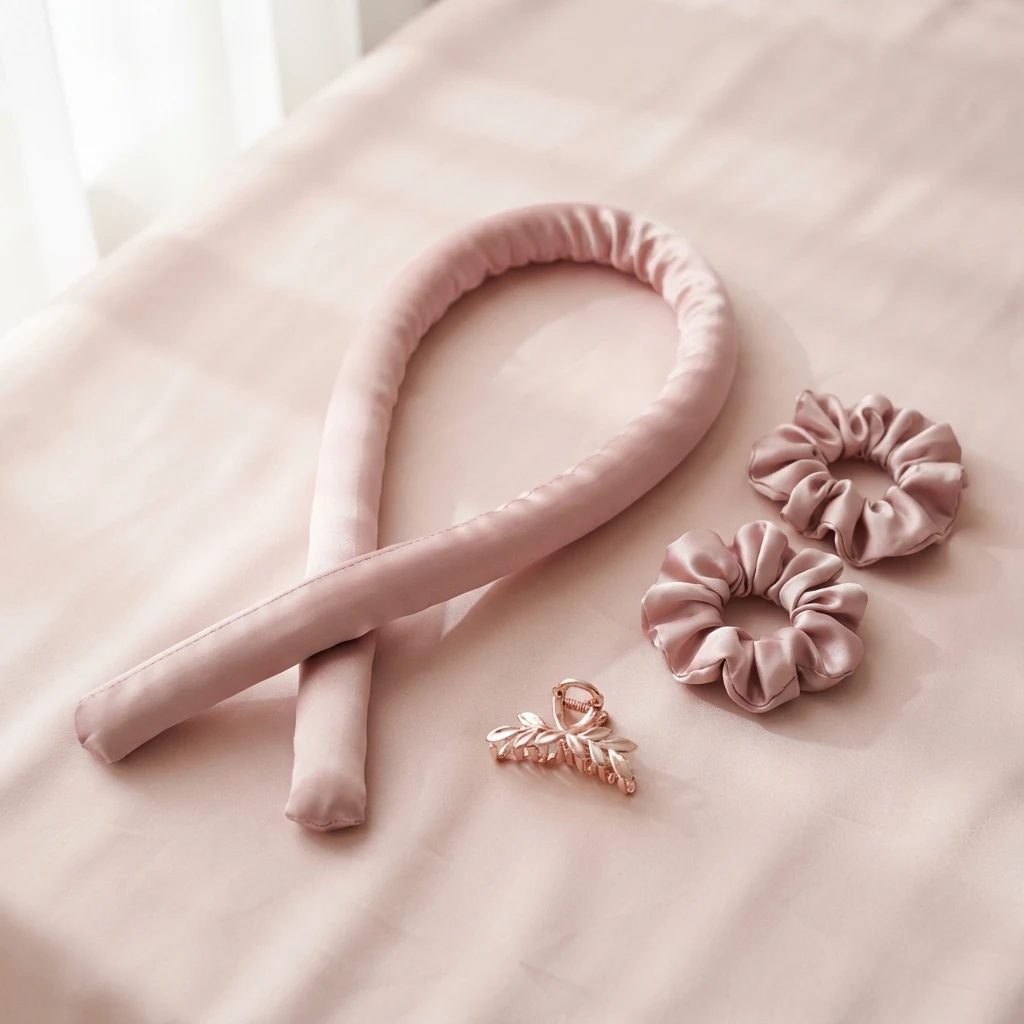
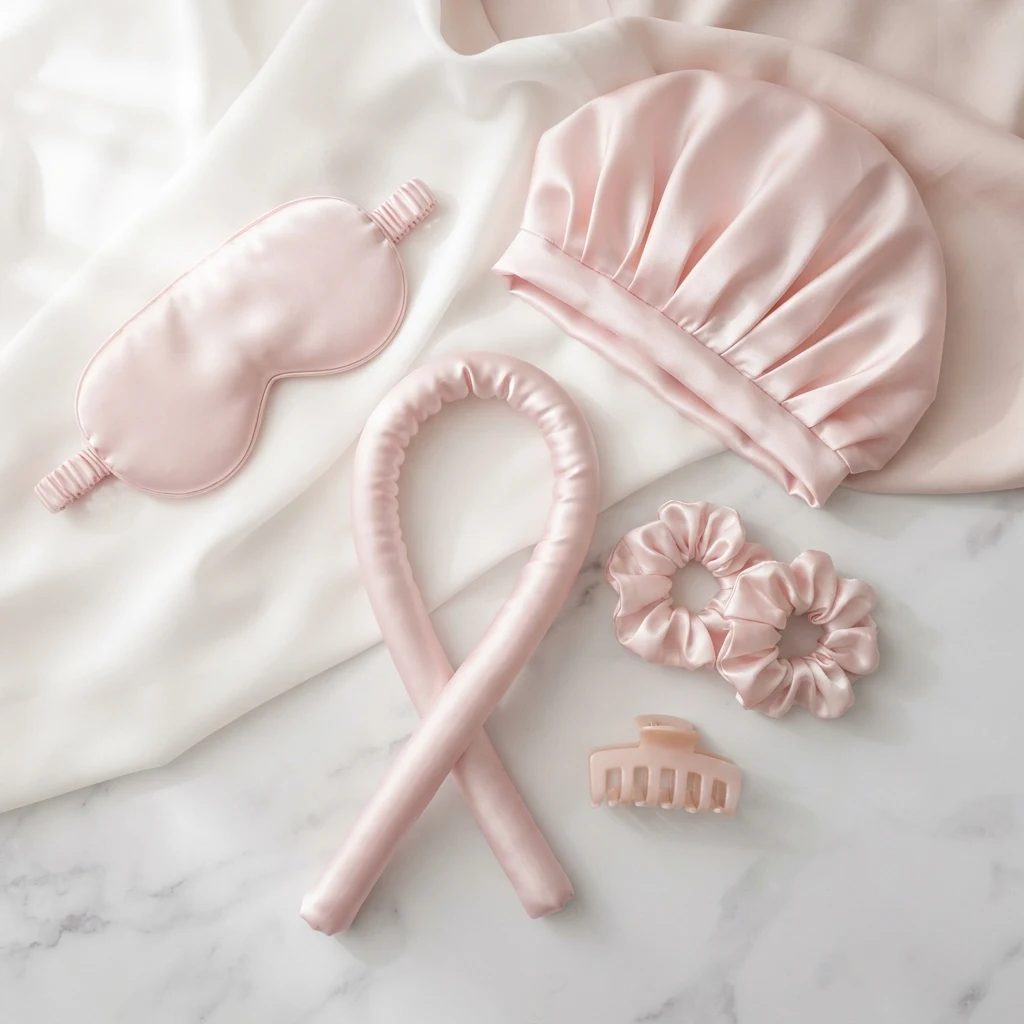
Add files via upload

diff --git a/index.html b/index.html
@@ -4,7 +4,7 @@
 <meta charset="utf-8">
 <meta name="viewport" content="width=device-width, initial-scale=1">
 <title>NOCTÉ Heatless Curls</title>
-<meta name="description" content="NOCTÉ heatless curling kit: satin rod, scrunchies and claw clip. Wrap in 5 minutes, sleep on it, wake up to curls with no heat.">
+<meta name="description" content="NOCTÉ heatless curling set: satin rod, scrunchies, claw clip, satin bonnet and sleep mask. Wrap in 5 minutes, sleep on it, wake up to curls with no heat.">
 <meta property="og:title" content="NOCTÉ: wake up to curls, no heat">
 <meta property="og:description" content="Satin heatless curling kit. Join the list for 15% off on launch day.">
 <meta property="og:image" content="https://jon1312.github.io/nocte/kit.jpg">
@@ -79,7 +79,7 @@ nav{position:sticky;top:0;z-index:20;display:flex;align-items:center;justify-con
 .step p{color:var(--soft);font-size:17px;max-width:30em}
 .night{background:var(--plum);color:#f6e6ea}
 .night .soft{color:#cdb3c4}
-.kit{display:grid;grid-template-columns:repeat(4,minmax(0,1fr));gap:16px;margin-top:32px}
+.kit{display:grid;grid-template-columns:repeat(auto-fit,minmax(170px,1fr));gap:16px;margin-top:32px}
 .item{background:color-mix(in srgb,#fff 6%,transparent);border:1px solid color-mix(in srgb,#fff 14%,transparent);border-radius:22px;padding:18px;display:grid;gap:10px}
 .item svg{width:100%;height:130px}
 .item h3{font-size:24px}
@@ -110,7 +110,7 @@ input::placeholder{color:#cdb3c4}
 .note{font-size:14px;color:#cdb3c4;margin-top:12px;min-height:1.4em}
 footer{padding:32px max(5vw,16px);display:flex;flex-wrap:wrap;gap:16px 32px;justify-content:space-between;font-size:14px;color:var(--soft);border-top:1px solid var(--line)}
 .sample{font-size:13px;color:var(--soft);margin-top:10px}
-@media(max-width:900px){.kit{grid-template-columns:repeat(2,minmax(0,1fr))}}
+@media(max-width:900px){}
 @media(max-width:760px){.shots,.pair{grid-template-columns:minmax(0,1fr)}.shots .ph:not(.big){display:none}.hero-top,.two,.cta{grid-template-columns:minmax(0,1fr)}.links{display:none}.story{grid-template-columns:minmax(0,1fr)}.stagebox{top:64px;height:calc(var(--vh,700px)*.46);z-index:5}.step{min-height:calc(var(--vh,700px)*.46)}.cmp{grid-template-columns:minmax(0,1fr)}.cmp>div+div{border-left:0;border-top:1px solid var(--line)}.row{grid-template-columns:7.5em minmax(0,1fr) 5.5em}}
 @media(prefers-reduced-motion:reduce){html{scroll-behavior:auto}.frames img{transition:none}}
 </style>
@@ -127,17 +127,17 @@ footer{padding:32px max(5vw,16px);display:flex;flex-wrap:wrap;gap:16px 32px;just
     <div>
       <h1>Wake up to curls. No heat.</h1>
       <p class="lede" style="margin-top:18px">A soft satin rod you wrap your hair around in five minutes, sleep on, and unwrap in the morning to bouncy curls and waves. No curling iron, no burnt ends.</p>
-      <div class="buy"><span class="price">€24.90<small>Full kit, 4 pieces</small></span><a class="btn" href="#join">Get 15% off at launch</a><a class="btn ghost" href="#how">See how it works</a></div>
+      <div class="buy"><span class="price">€29.90<small>Overnight set, 6 pieces</small></span><a class="btn" href="#join">Get 15% off at launch</a><a class="btn ghost" href="#how">See how it works</a></div>
     </div>
     <div class="facts">
       <div class="fact"><b>0 °C</b><span>of added heat</span></div>
       <div class="fact"><b>5 min</b><span>to wrap</span></div>
-      <div class="fact"><b>86 cm</b><span>satin rod, bendable</span></div>
+      <div class="fact"><b>93 cm</b><span>soft satin rod</span></div>
       <div class="fact"><b>2–8 h</b><span>to set, or overnight</span></div>
     </div>
   </div>
   <div class="wrap shots">
-    <figure class="ph big"><img src="kit.jpg" alt="NOCTÉ kit: dusty rose satin curling rod, two satin scrunchies and a claw clip on blush silk" width="1024" height="1024" fetchpriority="high"></figure>
+    <figure class="ph big"><img src="kit.jpg" alt="NOCTÉ set: light pink satin curling rod, two scrunchies, claw clip, satin bonnet and sleep mask on silk" width="1024" height="1024" fetchpriority="high"></figure>
     <figure class="ph"><img src="curls.jpg" alt="Long brown hair in soft heatless curls, seen from behind in morning light" width="825" height="1024"></figure>
   </div>
 </header>
@@ -163,8 +163,8 @@ footer{padding:32px max(5vw,16px);display:flex;flex-wrap:wrap;gap:16px 32px;just
         <div class="step"><span class="n">Step 1</span><h3>Start with damp hair</h3><p>Towel-dry until it is damp, not dripping, and brush out every tangle. Dry hair works too; damp hair sets a firmer curl.</p></div>
         <div class="step"><span class="n">Step 2</span><h3>Place the rod</h3><p>Lay the middle of the rod over the crown of your head so both ends hang evenly, and hold it with the claw clip.</p></div>
         <div class="step"><span class="n">Step 3</span><h3>Wrap away from your face</h3><p>Take a section from the front, twist it around the rod, then keep adding hair to each turn, like a rope braid, until one side is done. Repeat on the other side.</p></div>
-        <div class="step"><span class="n">Step 4</span><h3>Secure the ends</h3><p>Slip a satin scrunchie over each end. Bend the rod tips up if you like; the wire core holds the shape. Take the clip out.</p></div>
-        <div class="step"><span class="n">Step 5</span><h3>Sleep on it</h3><p>Leave it in for two hours or overnight. The soft foam core is comfortable to sleep on; back sleepers get the neatest result.</p></div>
+        <div class="step"><span class="n">Step 4</span><h3>Secure the ends</h3><p>Slip a satin scrunchie over each end and take the clip out.</p></div>
+        <div class="step"><span class="n">Step 5</span><h3>Sleep on it</h3><p>Pull on the satin bonnet to keep everything in place, add the sleep mask, and leave it in for a few hours or overnight. Back sleepers get the neatest result.</p></div>
         <div class="step"><span class="n">Step 6</span><h3>Unwrap and shake out</h3><p>Remove the scrunchies, slide the rod out from the top, and loosen the curls with your fingers. Tighter turns give curls, looser turns give waves.</p></div>
       </div>
     </div>
@@ -185,8 +185,8 @@ footer{padding:32px max(5vw,16px);display:flex;flex-wrap:wrap;gap:16px 32px;just
 <section class="band night" id="kit">
   <div class="wrap">
     <h2>Everything in the box</h2>
-    <p class="soft" style="margin-top:12px;max-width:40em">Four pieces, in satin that glides over hair with less friction than cotton, so you wake up with less frizz and fewer dents.</p>
-    <div class="nightph"><img src="night.jpg" alt="Satin curling rod, scrunchies and pouch on a satin pillow at night" width="1024" height="572" loading="lazy"></div>
+    <p class="soft" style="margin-top:12px;max-width:40em">Six pieces in matching satin, which glides over hair with less friction than cotton, so you wake up with less frizz and fewer dents.</p>
+    <div class="nightph"><img src="night.jpg" alt="Satin bonnet, sleep mask, curling rod and scrunchies on a satin pillow at night" width="1024" height="572" loading="lazy"></div>
     <div class="kit" id="kitgrid"></div>
   </div>
 </section>
@@ -196,7 +196,7 @@ footer{padding:32px max(5vw,16px);display:flex;flex-wrap:wrap;gap:16px 32px;just
     <h2>Same curls, without the heat</h2>
     <div class="cmp">
       <div><h3>Curling iron</h3><ul><li>Heats hair to around 150–200 °C every time you style</li><li>15–30 minutes in front of the mirror in the morning</li><li>Easy to burn fingers, ears or the ends of your hair</li><li>Needs a plug and warm-up time</li></ul></div>
-      <div><h3>NOCTÉ satin rod</h3><ul><li>No heat at all, the curl sets while hair dries</li><li>About 5 minutes the evening before</li><li>Soft foam and satin, nothing hot to touch</li><li>Fits in a pouch, works in hotels and on trips</li></ul></div>
+      <div><h3>NOCTÉ satin rod</h3><ul><li>No heat at all, the curl sets while hair dries</li><li>About 5 minutes the evening before</li><li>Soft foam and satin, nothing hot to touch</li><li>Packs flat, works in hotels and on trips</li></ul></div>
     </div>
     <p class="sample">Temperatures are typical settings for home curling tools.</p>
   </div>
@@ -255,7 +255,7 @@ footer{padding:32px max(5vw,16px);display:flex;flex-wrap:wrap;gap:16px 32px;just
 
 <footer>
   <span class="logo" style="font-size:22px">NOCTÉ</span>
-  <span>Heatless curling kit · satin rod, scrunchies, claw clip, pouch</span>
+  <span>Heatless curling set · satin rod, 2 scrunchies, claw clip, bonnet, sleep mask</span>
   <span>Launching soon in the EU</span>
 </footer>
 
@@ -272,10 +272,11 @@ const scrunch=(cx,cy,r,id)=>{let s='';const n=18;for(let i=0;i<n;i++){const a=i/
 
 /* kit cards */
 const kit=[
- {t:'Satin curling rod',d:'86 cm long, 3.2 cm thick. Soft foam core with a bendable wire so the ends stay where you put them.',svg:`<path d="M20 90 C 70 30, 130 120, 180 60 S 250 40, 270 70" fill="none" stroke="url(#ksat)" stroke-width="22" stroke-linecap="round"/><path d="M20 84 C 70 24, 130 114, 180 54 S 250 34, 270 64" fill="none" stroke="#fff" stroke-opacity=".5" stroke-width="3" stroke-linecap="round"/>`},
+ {t:'Satin curling rod',d:'93 cm of soft, padded satin. Long enough to wrap shoulder-length to waist-length hair.',svg:`<path d="M20 90 C 70 30, 130 120, 180 60 S 250 40, 270 70" fill="none" stroke="url(#ksat)" stroke-width="22" stroke-linecap="round"/><path d="M20 84 C 70 24, 130 114, 180 54 S 250 34, 270 64" fill="none" stroke="#fff" stroke-opacity=".5" stroke-width="3" stroke-linecap="round"/>`},
  {t:'2 satin scrunchies',d:'Hold the wrapped ends without creasing or denting the hair.',svg:''},
  {t:'Claw clip',d:'Keeps the rod centred on your head while you wrap both sides.',svg:`<g transform="translate(145 60)"><rect x="-55" y="-22" width="110" height="44" rx="22" fill="#e8a9a0"/><g fill="#e8a9a0"><path d="M-46 20 q-5 24 3 36 q7-14 9-36z"/><path d="M-22 20 q-4 26 4 38 q6-16 8-38z"/><path d="M2 20 q-3 26 4 38 q6-16 7-38z"/><path d="M26 20 q-3 24 5 36 q5-14 6-36z"/></g><path d="M-44 0 h88" stroke="#fff" stroke-opacity=".4" stroke-width="3"/></g>`},
- {t:'Storage pouch',d:'Satin drawstring pouch to keep the set clean and packed for travel.',svg:`<path d="M95 40 h100 l14 80 q0 10 -10 10 h-108 q-10 0 -10 -10z" fill="#e8a9a0"/><path d="M95 40 h100 l3 14 h-106z" fill="#c9827a"/><path d="M110 47 q35 12 70 0" stroke="#fbd9d1" stroke-width="3" fill="none"/><path d="M180 47 q14 18 6 34 M180 47 q20 10 22 28" stroke="#fbd9d1" stroke-width="3" fill="none"/>`}
+ {t:'Satin bonnet',d:'Goes over the wrapped rod at night so nothing slips and the outer layer stays smooth.',svg:`<g transform="translate(145 78)"><ellipse cx="0" cy="18" rx="74" ry="16" fill="#c9827a"/><path d="M-70 16 q-6 -62 70 -66 q76 4 70 66 q-70 18 -140 0z" fill="#e8a9a0"/><path d="M-40 -30 q40 -22 80 0" stroke="#fbd9d1" stroke-width="3" fill="none"/><path d="M-60 0 q60 -16 120 0" stroke="#fbd9d1" stroke-opacity=".6" stroke-width="2" fill="none"/></g>`},
+ {t:'Satin sleep mask',d:'Soft satin eye mask with an elastic strap, for a proper night while the curls set.',svg:`<g transform="translate(145 70)"><path d="M-110 -2 q-30 -4 -34 10 M110 -2 q30 -4 34 10" stroke="#c9827a" stroke-width="6" fill="none" stroke-linecap="round"/><path d="M-110 -10 q0 -26 55 -26 q35 0 55 14 q20 -14 55 -14 q55 0 55 26 q0 34 -55 34 q-35 0 -55 -16 q-20 16 -55 16 q-55 0 -55 -34z" fill="#e8a9a0"/><path d="M-80 -20 q30 -10 60 2 M20 -18 q30 -12 60 0" stroke="#fbd9d1" stroke-width="3" fill="none"/></g>`}
 ];
 const kdefs=`<defs><linearGradient id="ksat" x1="0" y1="0" x2="0" y2="1"><stop offset="0" stop-color="#fbd9d1"/><stop offset="1" stop-color="#c9827a"/></linearGradient><radialGradient id="kscr" cx=".4" cy=".35" r=".8"><stop offset="0" stop-color="#fbd9d1"/><stop offset="1" stop-color="#b9706a"/></radialGradient></defs>`;
 kit[1].svg=scrunch(105,70,36,'kscr')+scrunch(190,72,34,'kscr');
